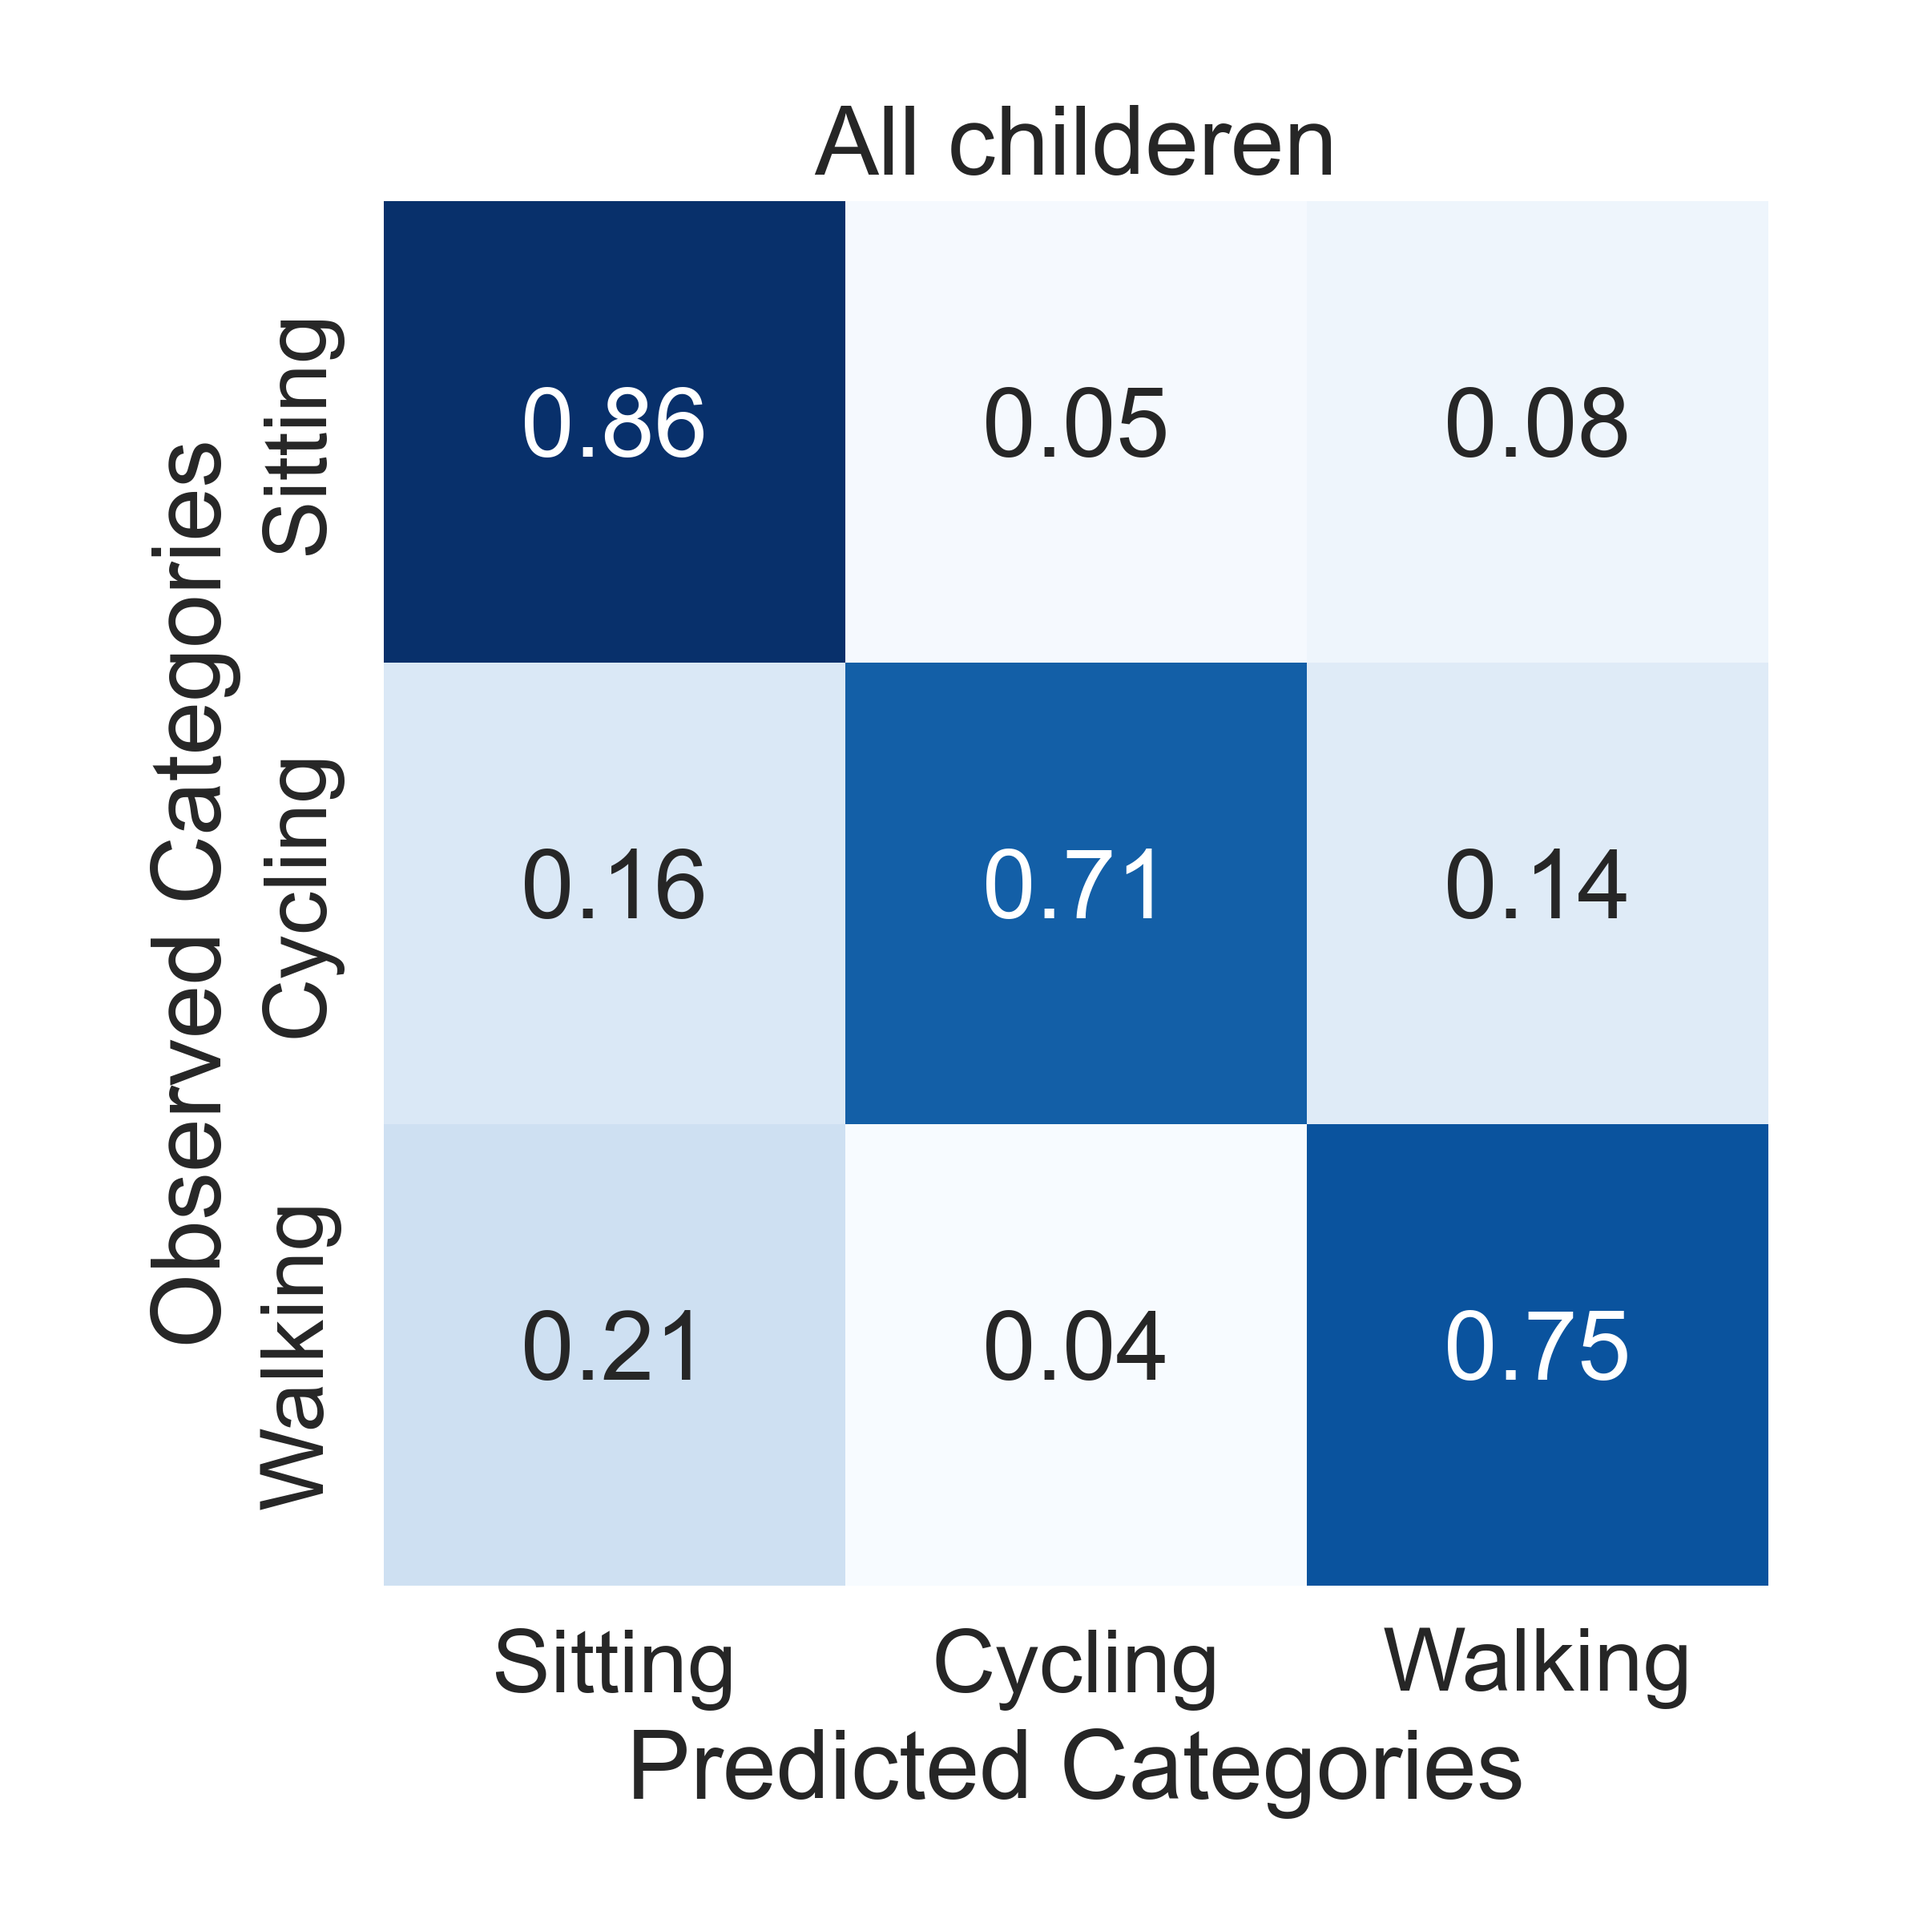
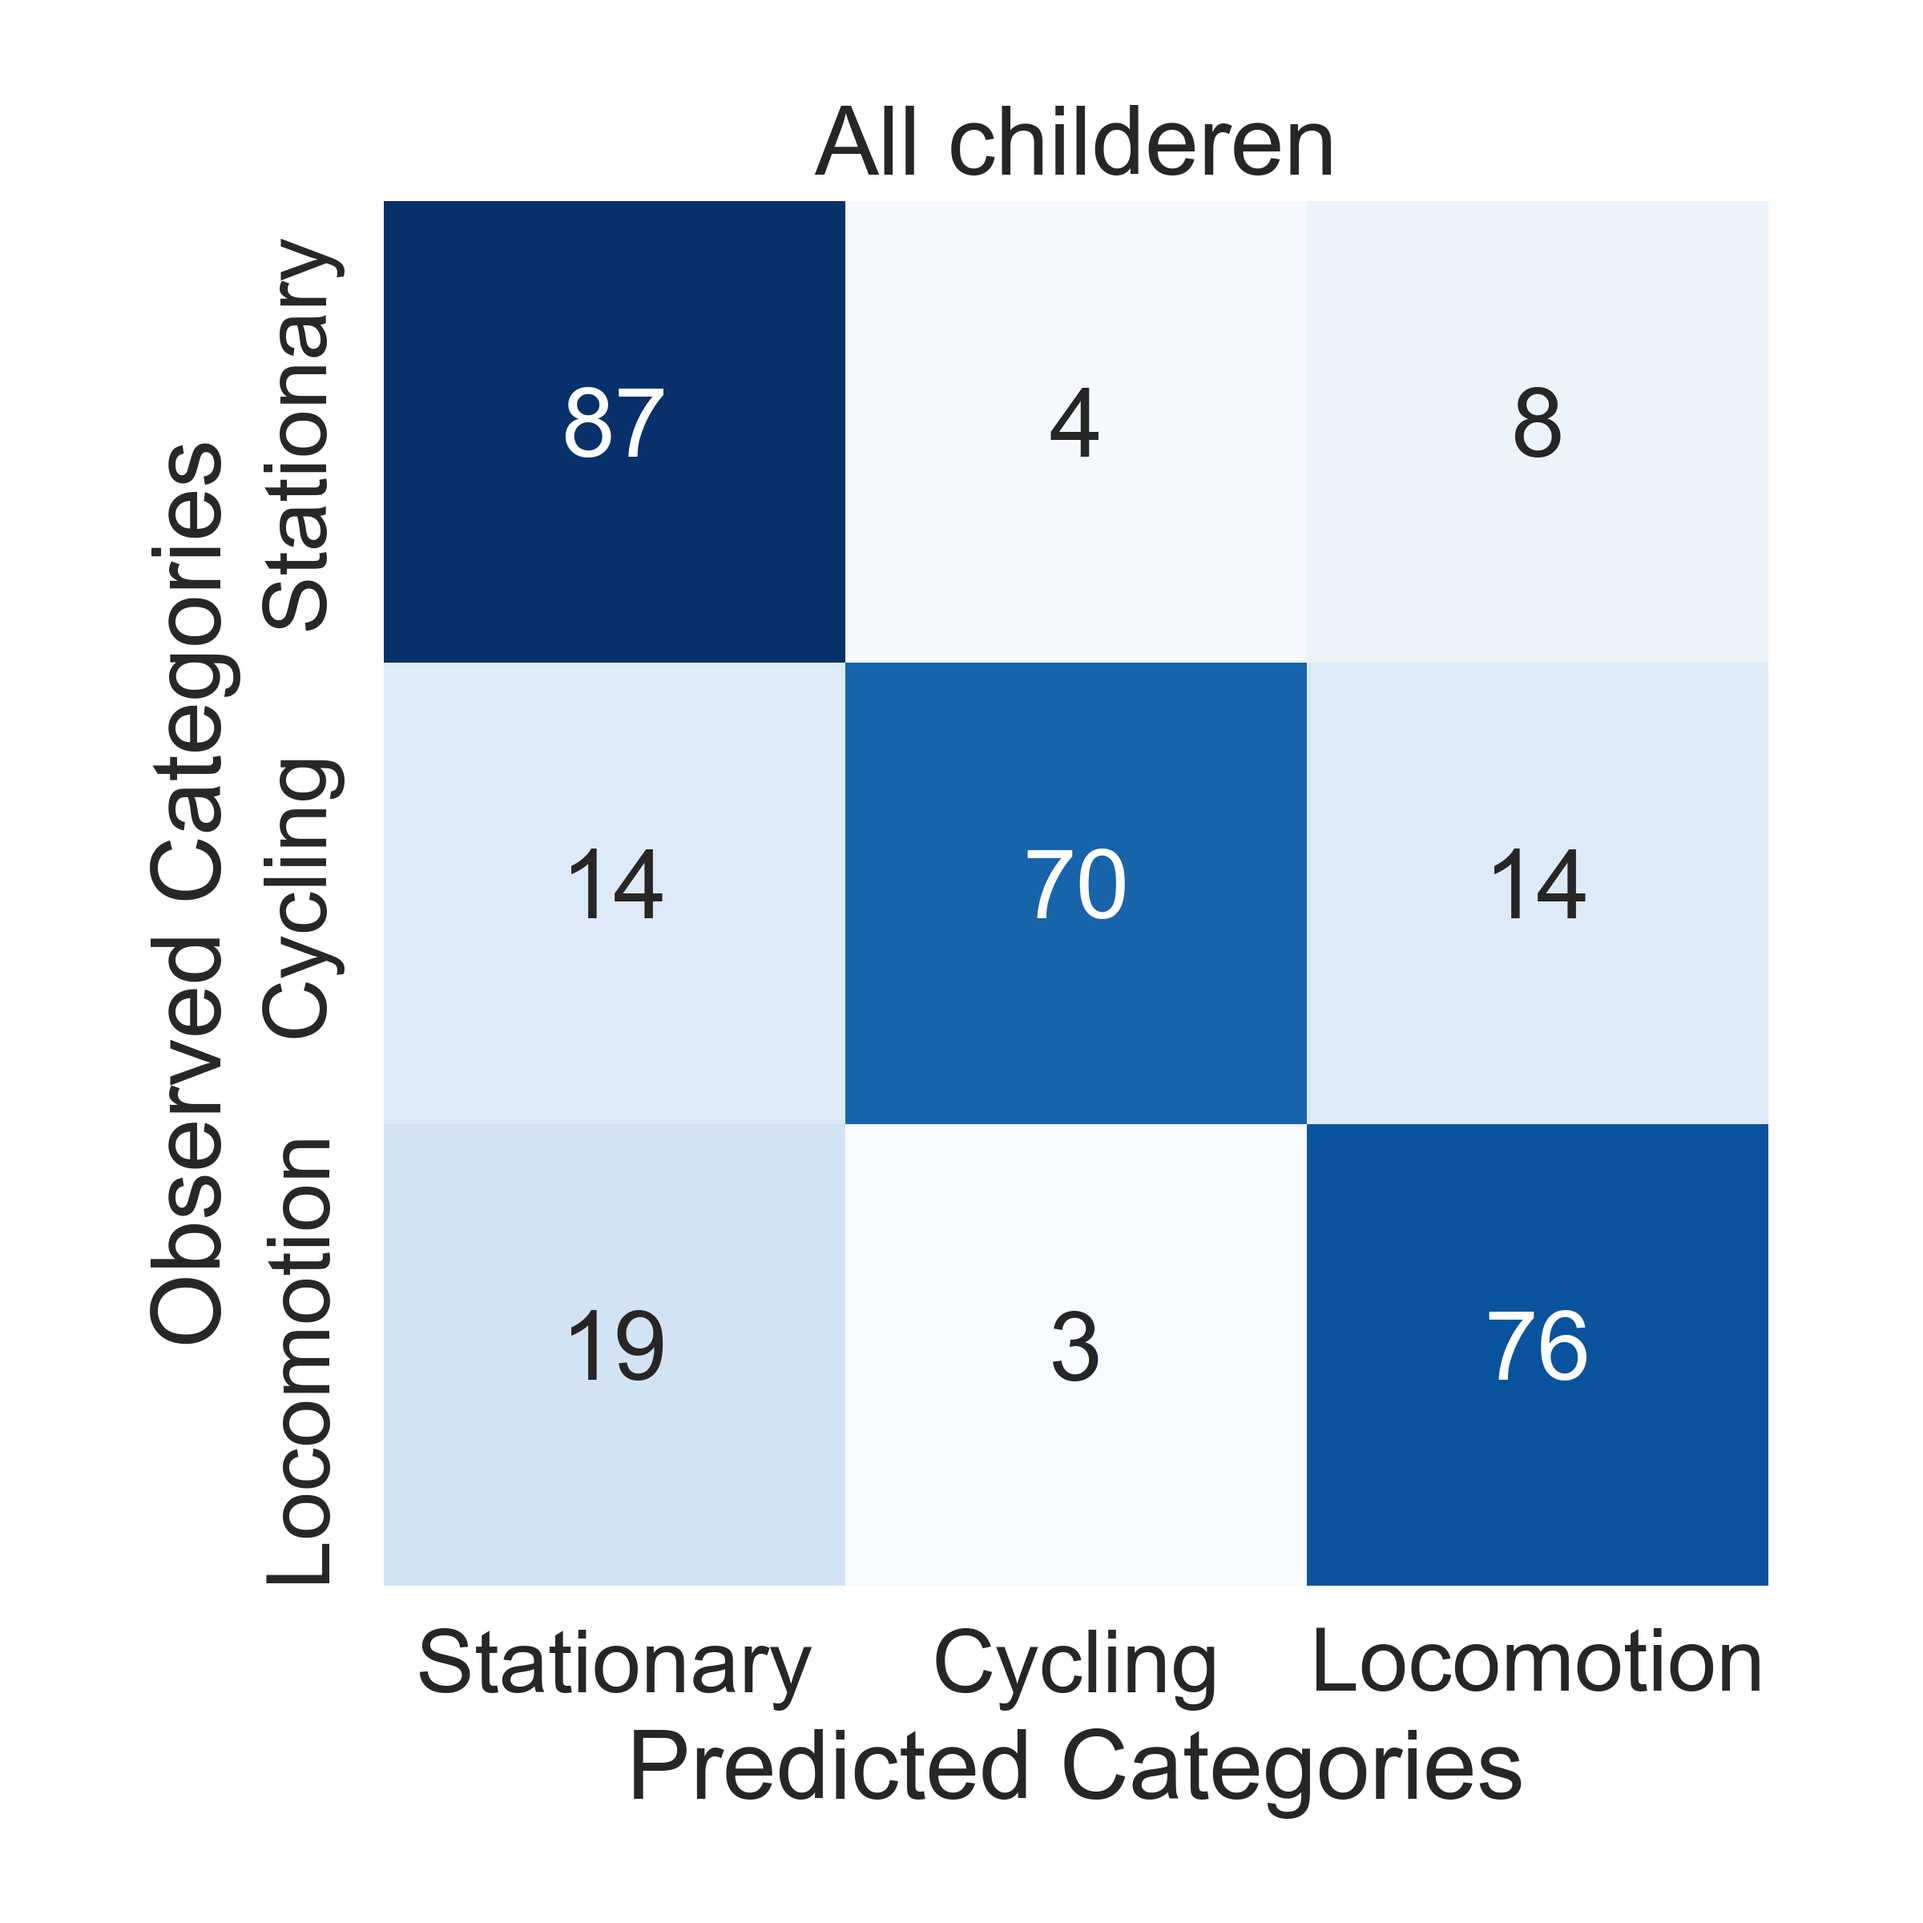
added figures

diff --git a/predict_activities_3groups.py b/predict_activities_3groups.py
@@ -169,6 +169,8 @@ results_all = {}
 results_young = {}
 results_old = {}
 results_pd = {}
+results_age = {}
+
 
 unique_part = np.unique(part_clean)
 young = charact.loc[charact['Leeftijd'] < 13, 'Proefpersoonnummer'].unique()
@@ -180,7 +182,7 @@ abnormal = charact.loc[charact['Onderzoeksgroep'] == 'afwijkend looppatroon']
 abnormal = unique_part[np.isin(unique_part, abnormal)]
 
 batch_size = 5
-repeat = 1
+repeat = 10
 groups = {'unique_part': unique_part, 'young': young,
           'abnormal': abnormal, 'old': old}
 # Split 20/80 for the train/validate set
@@ -288,6 +290,24 @@ for i in range(repeat):
                     selected_batch, selection, n_epochs, train_acc, val_acc, overall_accuracy,
                     weighted_recall, weighted_precision, weighted_f1_score, confusion_mat, normalized_confusion_mat]
 
+            for part in selected_batch:
+                # Select individual
+                idx_tmp_data = np.where(np.isin(part_clean, part))[0]
+                tmp_data = data_clean[idx_tmp_data, :, :]
+                tmp_outcome = y_one_hot[idx_tmp_data]
+                tmp_data, tmp_outcome = shuffle(tmp_data, tmp_outcome)
+                tmp_predictions = model.predict(tmp_data)
+
+                # Convert one-hot encoded predictions to labels
+                tmp_predictions = np.argmax(tmp_predictions, axis=1)
+                tmp_labels = np.argmax(tmp_outcome, axis=1)
+
+                # Calculate outcomes per individual
+                overall_accuracy = accuracy_score(tmp_labels, tmp_predictions)
+                part_data = charact.loc[charact['Proefpersoonnummer'] == part, [
+                    'Onderzoeksgroep', 'Leeftijd']].values[0]
+                results_age[f'{i}_{counter}_{part}'] = [
+                    part, part_data[0], part_data[1], overall_accuracy]
 
 results_all = pd.DataFrame.from_dict(results_all, orient='index', columns=['selected_batch', 'selection', 'n_epochs', 'train_acc',
                                                                            'val_acc', 'overall_accuracy', 'weighted_recall',
@@ -313,6 +333,9 @@ results_pd = pd.DataFrame.from_dict(results_pd, orient='index', columns=['select
                                                                          'normalized_confusion_mat'])
 results_pd.to_excel('Results/results_pd_l5o.xlsx')
 
+results_age = pd.DataFrame.from_dict(results_age, orient='index', columns=[
+                                     'Subject', 'Type', 'Age', 'overall_accuracy'])
+results_age.to_excel('Results/results_age_l5o.xlsx')
 
 # %%
 # Results all data
@@ -326,47 +349,47 @@ confidence = 0.95
 
 for name, df in results.items():
     print(name)
-    avg_acc = round(df['overall_accuracy'].mean(), 2)
-    std_acc = round(df['overall_accuracy'].std(), 2)
-    sem = stats.sem(df['overall_accuracy'])
-    ci_acc = np.round(stats.t.interval(confidence, len(
-        df['overall_accuracy'])-1, loc=avg_acc, scale=sem), 2)
-    # min_acc = round(df['overall_accuracy'].min(), 2)
-    # max_acc = round(df['overall_accuracy'].max(), 2)
+    avg_acc = round(df['overall_accuracy'].mean() * 100, 1)
+    std_acc = round(df['overall_accuracy'].std() * 100, 1)
+    # sem = round(stats.sem(df['overall_accuracy']) * 100, 1)
+    # ci_acc = np.round(stats.t.interval(confidence, len(
+    #     df['overall_accuracy'])-1, loc=avg_acc, scale=sem), 1)
+    min_acc = round(df['overall_accuracy'].min() * 100, 1)
+    max_acc = round(df['overall_accuracy'].max() * 100, 1)
 
-    avg_f1 = round(df['weighted_f1_score'].mean(), 2)
-    std_f1 = round(df['weighted_f1_score'].std(), 2)
-    sem = stats.sem(df['weighted_f1_score'])
-    ci_f1 = np.round(stats.t.interval(confidence, len(
-        df['weighted_f1_score'])-1, loc=avg_acc, scale=sem), 2)
+    avg_f1 = round(df['weighted_f1_score'].mean() * 100, 1)
+    std_f1 = round(df['weighted_f1_score'].std() * 100, 1)
+    # sem = round(stats.sem(df['weighted_f1_score']) * 100, 1)
+    # ci_f1 = np.round(stats.t.interval(confidence, len(
+    #     df['weighted_f1_score'])-1, loc=avg_acc, scale=sem) * 100, 1)
 
-    # min_f1 = round(df['weighted_f1_score'].min(), 2)
-    # max_f1 = round(df['weighted_f1_score'].max(), 2)
+    min_f1 = round(df['weighted_f1_score'].min() * 100, 1)
+    max_f1 = round(df['weighted_f1_score'].max() * 100, 1)
 
-    avg_recall = round(df['weighted_recall'].mean(), 2)
-    std_recall = round(df['weighted_recall'].std(), 2)
-    sem = stats.sem(df['weighted_recall'])
-    ci_recall = np.round(stats.t.interval(confidence, len(
-        df['weighted_recall'])-1, loc=avg_acc, scale=sem), 2)
+    avg_recall = round(df['weighted_recall'].mean() * 100, 1)
+    std_recall = round(df['weighted_recall'].std() * 100, 1)
+    # sem = round(stats.sem(df['weighted_recall']) * 100, 1)
+    # ci_recall = np.round(stats.t.interval(confidence, len(
+    #     df['weighted_recall'])-1, loc=avg_acc, scale=sem) * 100, 1)
 
-    # min_recall = round(df['weighted_recall'].min(), 2)
-    # max_recall = round(df['weighted_recall'].max(), 2)
+    min_recall = round(df['weighted_recall'].min() * 100, 1)
+    max_recall = round(df['weighted_recall'].max() * 100, 1)
 
-    avg_precision = round(df['weighted_precision'].mean(), 2)
-    std_precision = round(df['weighted_precision'].std(), 2)
-    sem = stats.sem(df['weighted_precision'])
-    ci_precision = np.round(stats.t.interval(confidence, len(
-        df['weighted_precision'])-1, loc=avg_acc, scale=sem), 2)
+    avg_precision = round(df['weighted_precision'].mean() * 100, 1)
+    std_precision = round(df['weighted_precision'].std() * 100, 1)
+    # sem = round(stats.sem(df['weighted_precision']) * 100, 1)
+    # ci_precision = np.round(stats.t.interval(confidence, len(
+    #     df['weighted_precision'])-1, loc=avg_acc, scale=sem) * 100, 1)
 
-    # min_precision = round(df['weighted_precision'].min(), 2)
-    # max_precision = round(df['weighted_precision'].max(), 2)
+    min_precision = round(df['weighted_precision'].min() * 100, 1)
+    max_precision = round(df['weighted_precision'].max() * 100, 1)
 
-    print(f'Accuracy {avg_acc} ({std_acc}), [{ci_acc[0]},{ci_acc[1]}]')
-    print(f'F1 {avg_f1} ({std_f1}), [{ci_f1[0]},{ci_f1[1]}]')
+    print(f'Accuracy {avg_acc} ({std_acc}), [{min_acc},{max_acc}]')
+    print(f'F1 {avg_f1} ({std_f1}), [{min_f1},{max_f1}]')
     print(
-        f'Recall {avg_recall} ({std_recall}), [{ci_recall[0]},{ci_recall[1]}]')
+        f'Recall {avg_recall} ({std_recall}), [{min_recall},{max_recall}]')
     print(
-        f'Precision {avg_precision} ({std_precision}), [{ci_precision[0]},{ci_precision[1]}]')
+        f'Precision {avg_precision} ({std_precision}), [{min_precision},{max_precision}]')
     normalized_confusion_mat = df['normalized_confusion_mat']
     for idx, matrix in normalized_confusion_mat.items():
         for j in matrix:
@@ -395,5 +418,19 @@ for name, df in results.items():
     fig.tight_layout()
     fig.savefig(f'Figures/Confusion_matrix_3groups_{name}.png', dpi=400)
 
+
+# %%
+sns.set_style("whitegrid")
+results_age['Age'] = results_age['Age'].astype('int32')
+results_age['overall_accuracy'] *= 100
+fig, ax = plt.subplots(figsize=(10, 6))
+sns.lineplot(data=results_age, x='Age', y='overall_accuracy', ax=ax)
+ax.set_ylim(60, 90)
+ax.set_xlim(-1, 21)
+ax.set_xlabel('Age [years]')
+ax.set_ylabel('Accuracy')
+ax.set_title('Model accuracy per age')
+fig.tight_layout()
+fig.savefig(f'Figures/Accuracy_per_age.png', dpi=400)
 
 # %%
